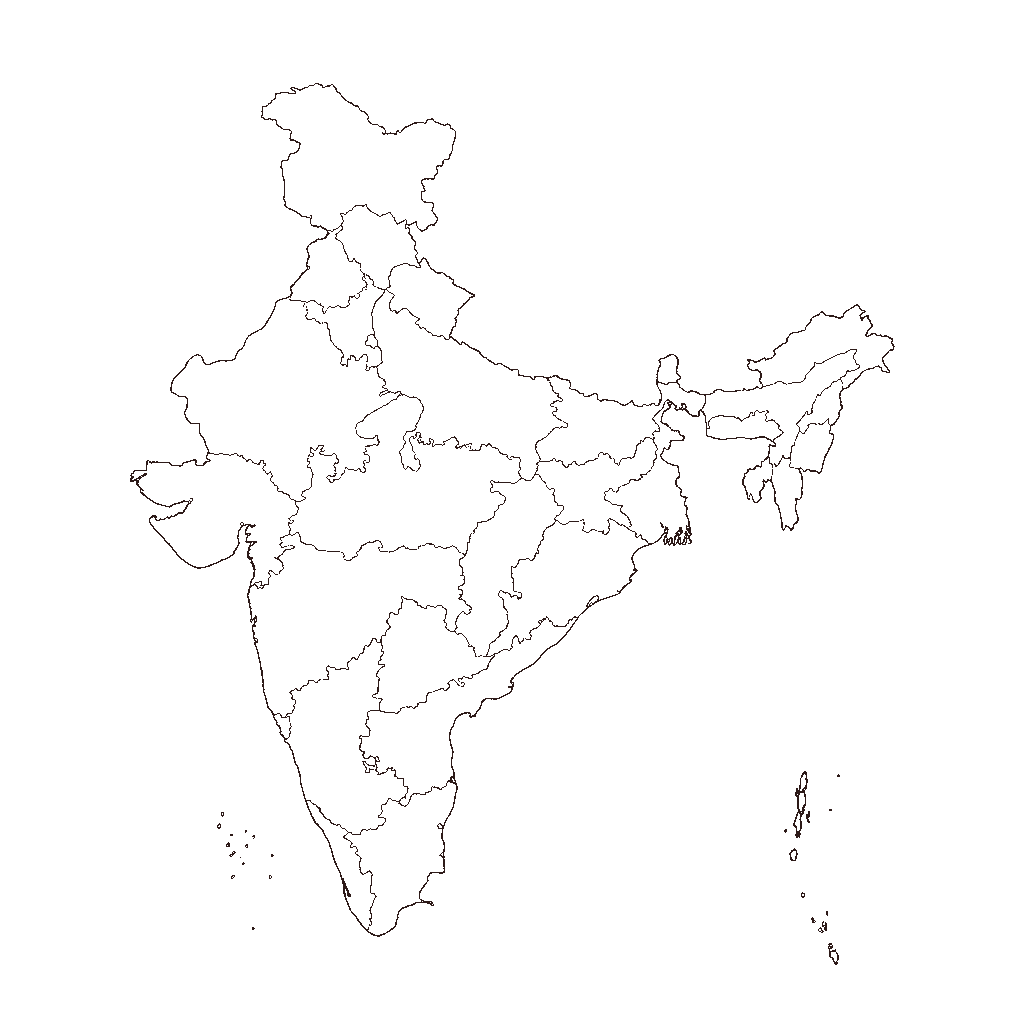
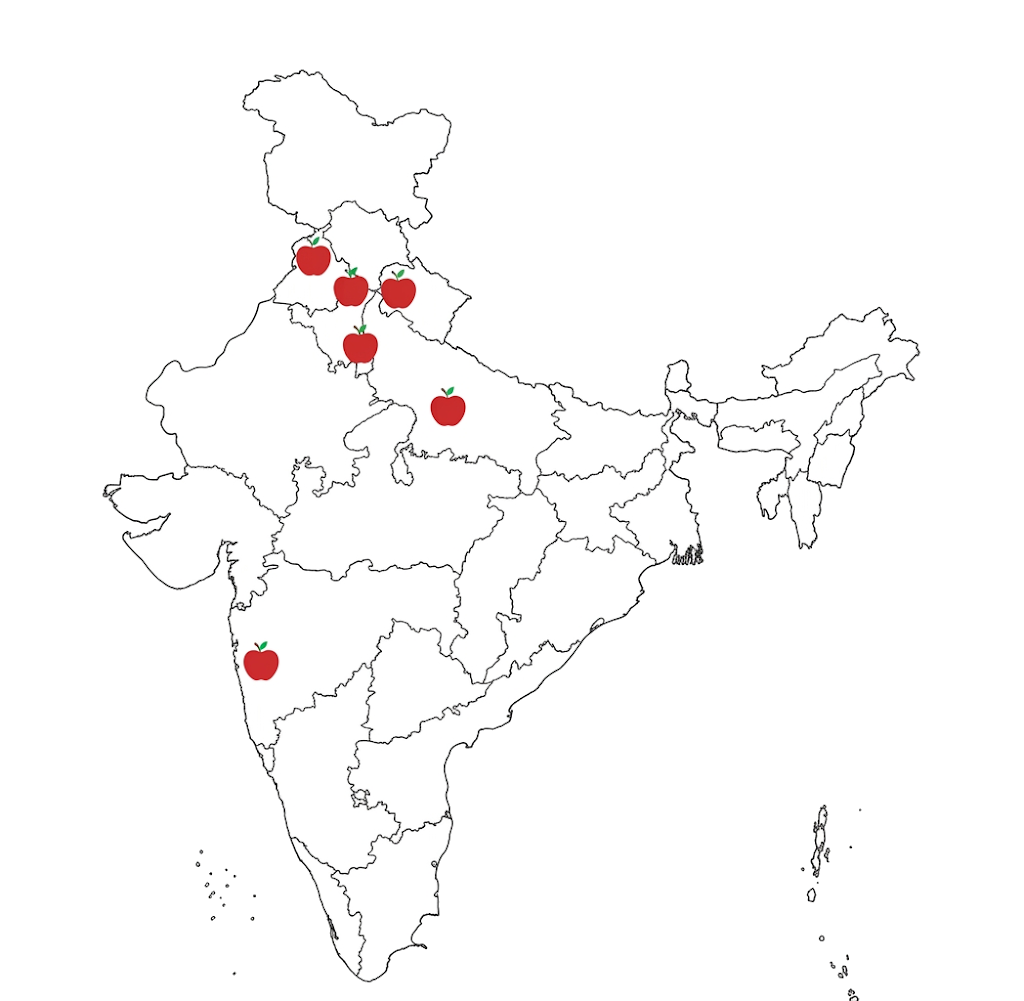
Update Channels page map graphic to use the custom user-provided map, make the background transparent, keep white landmass fill and black state outlines, and remove floating HTML pins

diff --git a/channels.html b/channels.html
@@ -856,49 +856,7 @@
                 <div class="map-wrapper">
                     <div class="map-graphic"></div>
 
-                    <!-- Location Pins with SVG bouncing apples -->
-                    <div class="map-pin pin-punjab">
-                        <svg viewBox="0 0 24 24" xmlns="http://www.w3.org/2000/svg">
-                            <path d="M12 20c-1.5 0-2.5-0.7-3.5-1.5-1.5-1.2-3.5-3.8-3.5-7 0-3.5 2.5-5.5 5.5-5.5 1.2 0 2.3 0.5 3 1.2 0.7-0.7 1.8-1.2 3-1.2 3 0 5.5 2 5.5 5.5 0 3.2-2 5.8-3.5 7-1 .8-2 1.5-3.5 1.5z" fill="#d63031"/>
-                            <path d="M12 6c0-2 1.5-3.5 3-3.5.3 0 .5.1.5.3 0 1.5-1.5 3-3 3.2z" fill="#2ecc71"/>
-                            <path d="M12 6c-0.3-1.2-0.8-2.2-1.5-2.8-.2-.2-.2-.5 0-.7.2-.2.5-.2.7 0 .8.7 1.3 1.8 1.6 3 .1.3-.1.6-.4.6h-.4z" fill="#8d6e63"/>
-                        </svg>
-                    </div>
-                    <div class="map-pin pin-ambala">
-                        <svg viewBox="0 0 24 24" xmlns="http://www.w3.org/2000/svg">
-                            <path d="M12 20c-1.5 0-2.5-0.7-3.5-1.5-1.5-1.2-3.5-3.8-3.5-7 0-3.5 2.5-5.5 5.5-5.5 1.2 0 2.3 0.5 3 1.2 0.7-0.7 1.8-1.2 3-1.2 3 0 5.5 2 5.5 5.5 0 3.2-2 5.8-3.5 7-1 .8-2 1.5-3.5 1.5z" fill="#d63031"/>
-                            <path d="M12 6c0-2 1.5-3.5 3-3.5.3 0 .5.1.5.3 0 1.5-1.5 3-3 3.2z" fill="#2ecc71"/>
-                            <path d="M12 6c-0.3-1.2-0.8-2.2-1.5-2.8-.2-.2-.2-.5 0-.7.2-.2.5-.2.7 0 .8.7 1.3 1.8 1.6 3 .1.3-.1.6-.4.6h-.4z" fill="#8d6e63"/>
-                        </svg>
-                    </div>
-                    <div class="map-pin pin-saharanpur">
-                        <svg viewBox="0 0 24 24" xmlns="http://www.w3.org/2000/svg">
-                            <path d="M12 20c-1.5 0-2.5-0.7-3.5-1.5-1.5-1.2-3.5-3.8-3.5-7 0-3.5 2.5-5.5 5.5-5.5 1.2 0 2.3 0.5 3 1.2 0.7-0.7 1.8-1.2 3-1.2 3 0 5.5 2 5.5 5.5 0 3.2-2 5.8-3.5 7-1 .8-2 1.5-3.5 1.5z" fill="#d63031"/>
-                            <path d="M12 6c0-2 1.5-3.5 3-3.5.3 0 .5.1.5.3 0 1.5-1.5 3-3 3.2z" fill="#2ecc71"/>
-                            <path d="M12 6c-0.3-1.2-0.8-2.2-1.5-2.8-.2-.2-.2-.5 0-.7.2-.2.5-.2.7 0 .8.7 1.3 1.8 1.6 3 .1.3-.1.6-.4.6h-.4z" fill="#8d6e63"/>
-                        </svg>
-                    </div>
-                    <div class="map-pin pin-delhi">
-                        <svg viewBox="0 0 24 24" xmlns="http://www.w3.org/2000/svg">
-                            <path d="M12 20c-1.5 0-2.5-0.7-3.5-1.5-1.5-1.2-3.5-3.8-3.5-7 0-3.5 2.5-5.5 5.5-5.5 1.2 0 2.3 0.5 3 1.2 0.7-0.7 1.8-1.2 3-1.2 3 0 5.5 2 5.5 5.5 0 3.2-2 5.8-3.5 7-1 .8-2 1.5-3.5 1.5z" fill="#d63031"/>
-                            <path d="M12 6c0-2 1.5-3.5 3-3.5.3 0 .5.1.5.3 0 1.5-1.5 3-3 3.2z" fill="#2ecc71"/>
-                            <path d="M12 6c-0.3-1.2-0.8-2.2-1.5-2.8-.2-.2-.2-.5 0-.7.2-.2.5-.2.7 0 .8.7 1.3 1.8 1.6 3 .1.3-.1.6-.4.6h-.4z" fill="#8d6e63"/>
-                        </svg>
-                    </div>
-                    <div class="map-pin pin-kanpur">
-                        <svg viewBox="0 0 24 24" xmlns="http://www.w3.org/2000/svg">
-                            <path d="M12 20c-1.5 0-2.5-0.7-3.5-1.5-1.5-1.2-3.5-3.8-3.5-7 0-3.5 2.5-5.5 5.5-5.5 1.2 0 2.3 0.5 3 1.2 0.7-0.7 1.8-1.2 3-1.2 3 0 5.5 2 5.5 5.5 0 3.2-2 5.8-3.5 7-1 .8-2 1.5-3.5 1.5z" fill="#d63031"/>
-                            <path d="M12 6c0-2 1.5-3.5 3-3.5.3 0 .5.1.5.3 0 1.5-1.5 3-3 3.2z" fill="#2ecc71"/>
-                            <path d="M12 6c-0.3-1.2-0.8-2.2-1.5-2.8-.2-.2-.2-.5 0-.7.2-.2.5-.2.7 0 .8.7 1.3 1.8 1.6 3 .1.3-.1.6-.4.6h-.4z" fill="#8d6e63"/>
-                        </svg>
-                    </div>
-                    <div class="map-pin pin-pune">
-                        <svg viewBox="0 0 24 24" xmlns="http://www.w3.org/2000/svg">
-                            <path d="M12 20c-1.5 0-2.5-0.7-3.5-1.5-1.5-1.2-3.5-3.8-3.5-7 0-3.5 2.5-5.5 5.5-5.5 1.2 0 2.3 0.5 3 1.2 0.7-0.7 1.8-1.2 3-1.2 3 0 5.5 2 5.5 5.5 0 3.2-2 5.8-3.5 7-1 .8-2 1.5-3.5 1.5z" fill="#d63031"/>
-                            <path d="M12 6c0-2 1.5-3.5 3-3.5.3 0 .5.1.5.3 0 1.5-1.5 3-3 3.2z" fill="#2ecc71"/>
-                            <path d="M12 6c-0.3-1.2-0.8-2.2-1.5-2.8-.2-.2-.2-.5 0-.7.2-.2.5-.2.7 0 .8.7 1.3 1.8 1.6 3 .1.3-.1.6-.4.6h-.4z" fill="#8d6e63"/>
-                        </svg>
-                    </div>
+                    <!-- Clean static map with pre-rendered apple indicators -->
                 </div>
             </div>
         </div>